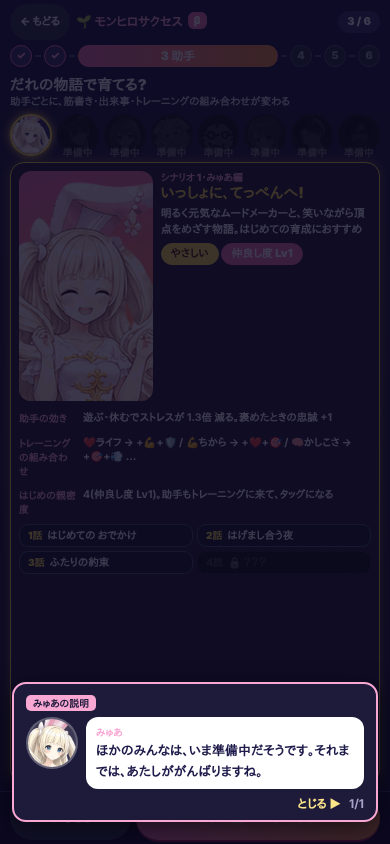
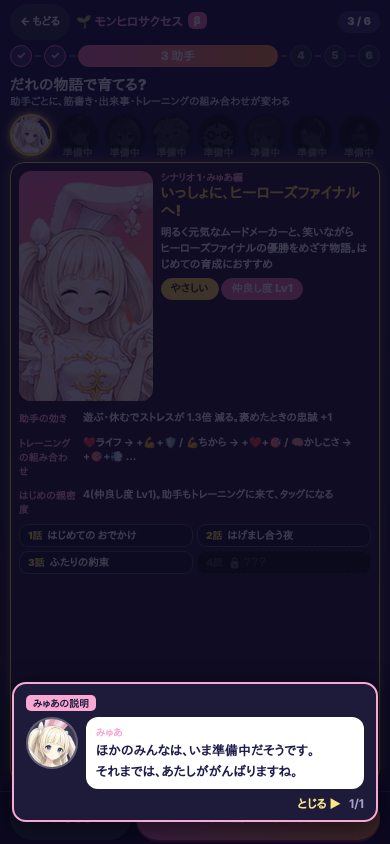
見張り・道具の「頂への道」「ヒーローの頂」も新しい名前へ(monhero-success-check の称号の確かめ・soak の文・キービジュアルの札)
Claude-Session: https://claude.ai/code/session_0113GBaCw5yTFQ1FM9XswwWa

Changed region(s): [[0.4, 0.2156, 0.9538, 0.3697], [0.2462, 0.8934, 0.7692, 0.9242], [0.8, 0.8626, 0.8923, 0.8934]]

diff --git a/tools/success/monhero-success-check.js b/tools/success/monhero-success-check.js
@@ -194,7 +194,7 @@ ok(near(SUC.failRateOf({ ...base, yosu: { sabori: { visits: 0 } } }) - fFull, 0.
   const pre = { ...w.stats };
   w = SUC.settle(w, [true]).state;
   // 決勝の全能力の上乗せは、エンディングのお祝いへ置きかえた(2026-11-13)。称号・能力ポイントはそのまま
-  ok(w.over === 'done' && w.titles.includes('ヒーローの頂') && w.ending && ['good', 'super'].includes(w.ending.kind)
+  ok(w.over === 'done' && w.titles.includes('真のヒーロー') && w.ending && ['good', 'super'].includes(w.ending.kind)
     && w.stats.life === Math.min(999, pre.life + SUC.PARTY[w.ending.kind].reduce((a, n) => a + n, 0)), `決勝に勝ったあとのエンディングとお祝いがずれている: ${JSON.stringify(w.ending)}`);
   ok(lose.ending && lose.ending.kind === 'bad' && lose.ending.parties.length === 1, '頂への道で負けてもバッドエンディングが付かない');
   const ev = SUC.evaluate(w); ok(Number.isFinite(ev.power) && Number.isFinite(ev.powerS) && ev.powerS <= ev.power && ev.points === SUC.assistPointsOf(ev.powerS), '評価(総合力・アシストポイント)が出ない(アシストポイントは今までの数え方の総合力 powerS から・案A)');

diff --git a/tools/success/make-key-visual.js b/tools/success/make-key-visual.js
@@ -33,7 +33,7 @@ const pickScene = () => {
   const bw = 150, bgap = 14, bx0 = 48, by = 350;
   const flow = periods.map((p, i) => {
     const x = bx0 + i * (bw + bgap), last = i === periods.length - 1;
-    const sub = last ? '頂への道' : p[1] + 'ターン';
+    const sub = last ? 'ヒーローズファイナル' : p[1] + 'ターン';
     return `<rect x="${x}" y="${by}" width="${bw}" height="78" rx="14" fill="#0f1b3d" fill-opacity=".92" stroke="${last ? '#ffd54a' : '#fb7185'}" stroke-width="3"/>
     <text x="${x + bw / 2}" y="${by + 34}" font-size="23" font-weight="700" fill="#fff" text-anchor="middle">${p[0]}</text>
     <text x="${x + bw / 2}" y="${by + 64}" font-size="20" fill="${last ? '#ffd54a' : '#ffb4cf'}" text-anchor="middle">${sub}</text>` + (last ? '' : `<text x="${x + bw + bgap / 2}" y="${by + 48}" font-size="18" fill="#ffd54a" text-anchor="middle">▶</text>`);
